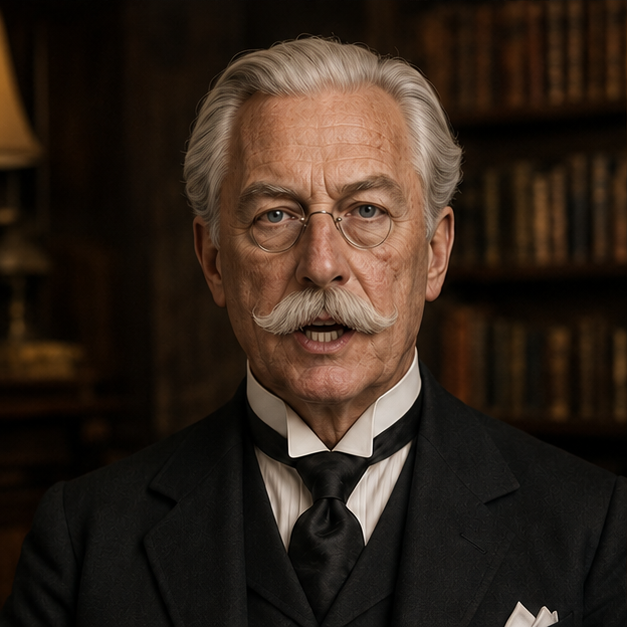
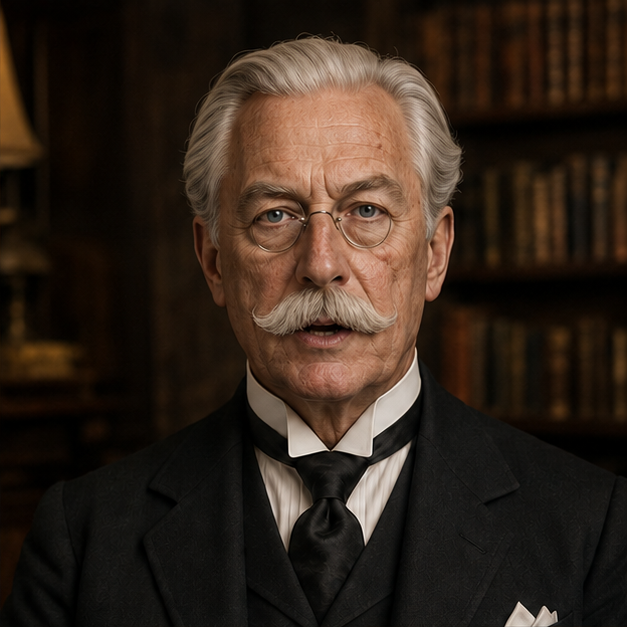
Add 4-frame portrait cycle for Caldwell
Caldwell now uses a fixed-rate 4-frame cycle (panels 1→2→3→4 at
250ms/frame, full loop every 1s) instead of envelope-driven mouth-
state opacity. The four panels are micro-variations of the same
composed butler portrait — slow cycling reads as natural micro-
adjustments rather than mouth-flapping, suiting the character.

- New CaldwellCycle controller in dashboard JS with start/stop/
  pause/resume lifecycle methods.
- LipSync.start/stop/pause/resume hook into CaldwellCycle when the
  active voice is the assistant (Caldwell). LipSync.setMouth bails
  out for Caldwell while the cycle is active so envelope-driven
  opacity doesn't fight the cycle.
- Other voices (Adam, Rachel etc.) keep their existing 3-frame
  envelope-driven mouth animation unchanged.
- Portrait files: caldwell.png/_slight/_open now hold panels 1/2/3
  respectively; caldwell_4.png is the new 4th frame. CSS .mouth-4
  follows the same hidden-by-default pattern as the others.

diff --git a/dashboard/index.html b/dashboard/index.html
@@ -202,7 +202,7 @@
     transition: all 0.5s cubic-bezier(0.16, 1, 0.3, 1);
   }
 
-  .mouth-slight, .mouth-open {
+  .mouth-slight, .mouth-open, .mouth-4 {
     position: absolute;
     inset: 0;
     opacity: 0;
@@ -1308,6 +1308,8 @@
           onerror="this.remove();">
         <img class="portrait-img mouth-open" src="/portraits/caldwell_open.png" alt="" draggable="false"
           onerror="this.remove();">
+        <img class="portrait-img mouth-4" src="/portraits/caldwell_4.png" alt="" draggable="false"
+          onerror="this.remove();">
       </div>
       <div class="voice-name">CALDWELL</div>
     </div>
@@ -1573,6 +1575,75 @@ function getMouthElements(voiceName) {
   return mouthElements[voiceName];
 }
 
+// ========== CALDWELL CYCLE CONTROLLER ==========
+// Caldwell uses a 4-frame cycle on a fixed timer (panels 1→2→3→4)
+// rather than envelope-driven mouth-state opacity. The four panels are
+// micro-variations of the same composed butler portrait — cycling them
+// at ~4fps reads as natural micro-adjustments rather than mouth-flapping.
+var CaldwellCycle = {
+  timer: null,
+  frame: 0,
+  intervalMs: 250,  // 250ms per frame = 4fps, full cycle every 1s
+  imgs: null,
+
+  _ensureImgs: function() {
+    if (this.imgs) return this.imgs;
+    if (!ASSISTANT_TILE) return null;
+    this.imgs = [
+      ASSISTANT_TILE.querySelector('.mouth-closed'),
+      ASSISTANT_TILE.querySelector('.mouth-slight'),
+      ASSISTANT_TILE.querySelector('.mouth-open'),
+      ASSISTANT_TILE.querySelector('.mouth-4'),
+    ];
+    return this.imgs;
+  },
+
+  isActive: function() {
+    return this.timer !== null;
+  },
+
+  start: function() {
+    if (this.timer) return;
+    this.frame = 0;
+    this._show(0);
+    this.timer = setInterval(this._advance.bind(this), this.intervalMs);
+  },
+
+  stop: function() {
+    if (this.timer) {
+      clearInterval(this.timer);
+      this.timer = null;
+    }
+    this.frame = 0;
+    this._show(0);
+  },
+
+  pause: function() {
+    if (this.timer) {
+      clearInterval(this.timer);
+      this.timer = null;
+    }
+  },
+
+  resume: function() {
+    if (this.timer) return;
+    this.timer = setInterval(this._advance.bind(this), this.intervalMs);
+  },
+
+  _advance: function() {
+    this.frame = (this.frame + 1) % 4;
+    this._show(this.frame);
+  },
+
+  _show: function(idx) {
+    var imgs = this._ensureImgs();
+    if (!imgs) return;
+    for (var i = 0; i < imgs.length; i++) {
+      if (imgs[i]) imgs[i].style.opacity = (i === idx) ? 1 : 0;
+    }
+  },
+};
+
 // ========== LIPSYNC CONTROLLER ==========
 var LipSync = {
   envelope: null,
@@ -1590,6 +1661,7 @@ var LipSync = {
 
   start: function(voiceName, envelope, chunkMs) {
     this.stop();
+    if (voiceName === ASSISTANT_VOICE) CaldwellCycle.start();
     if (!envelope || !envelope.length) return;
     this.envelope = envelope;
     this.chunkMs = chunkMs || 50;
@@ -1645,6 +1717,8 @@ var LipSync = {
   },
 
   setMouth: function(voiceName, amp) {
+    // Caldwell uses 4-frame cycle, not envelope-driven mouth opacity
+    if (voiceName === ASSISTANT_VOICE && CaldwellCycle.isActive()) return;
     var els = getMouthElements(voiceName);
     if (!els) return;
     if (amp < 0.03) {
@@ -1668,6 +1742,7 @@ var LipSync = {
   },
 
   pause: function() {
+    if (this.activeVoice === ASSISTANT_VOICE) CaldwellCycle.pause();
     if (this._paused || !this.envelope) return;
     this._paused = true;
     this._pauseTime = performance.now();
@@ -1677,6 +1752,7 @@ var LipSync = {
   },
 
   resume: function() {
+    if (this.activeVoice === ASSISTANT_VOICE) CaldwellCycle.resume();
     if (!this._paused || !this.envelope) return;
     var pauseDuration = performance.now() - this._pauseTime;
     this.startTime += pauseDuration;
@@ -1687,6 +1763,7 @@ var LipSync = {
   },
 
   stop: function() {
+    CaldwellCycle.stop();
     if (this.rafId) cancelAnimationFrame(this.rafId);
     this.rafId = null;
     this._paused = false;